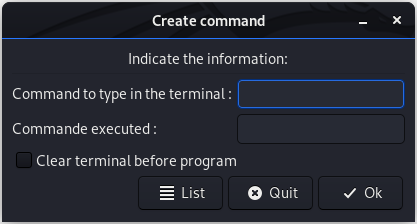
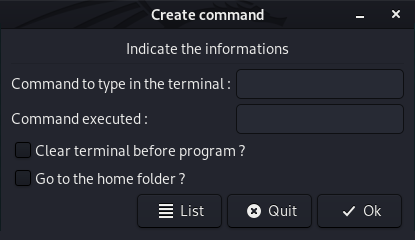
2.1.1

Changed region(s): [[0.0, 0.0, 1.0, 1.0]]

diff --git a/README.md b/README.md
@@ -2,7 +2,7 @@
 <img src="https://github.com/72y9op/aliaz/blob/master/preview/aliaz_210.png">
 </p>
 <p align="center"> 
-<img src="https://img.shields.io/badge/Version-2.1.0-blueviolet?style=flat-square">
+<img src="https://img.shields.io/badge/Version-2.1.1-blueviolet?style=flat-square">
 <img src="https://img.shields.io/badge/Alpha-yes-red?style=flat-square">
 <img src="https://img.shields.io/badge/Language-Bash-blue?style=flat-square">
 <img src="https://img.shields.io/badge/OS-Linux-orange?style=flat-square">
@@ -52,7 +52,9 @@ For the rest, you can add a keyboard shortcut to be able to create an order quic
 
 ## Run :
 ```
-mkalias -i= [ GUI or CLI ]
+mkalias --gui : Open with GUI interface 
+mkalias --cli : Open with CLI interface
+} 
 ```
 
 # Donations : aliaz & other projects 
